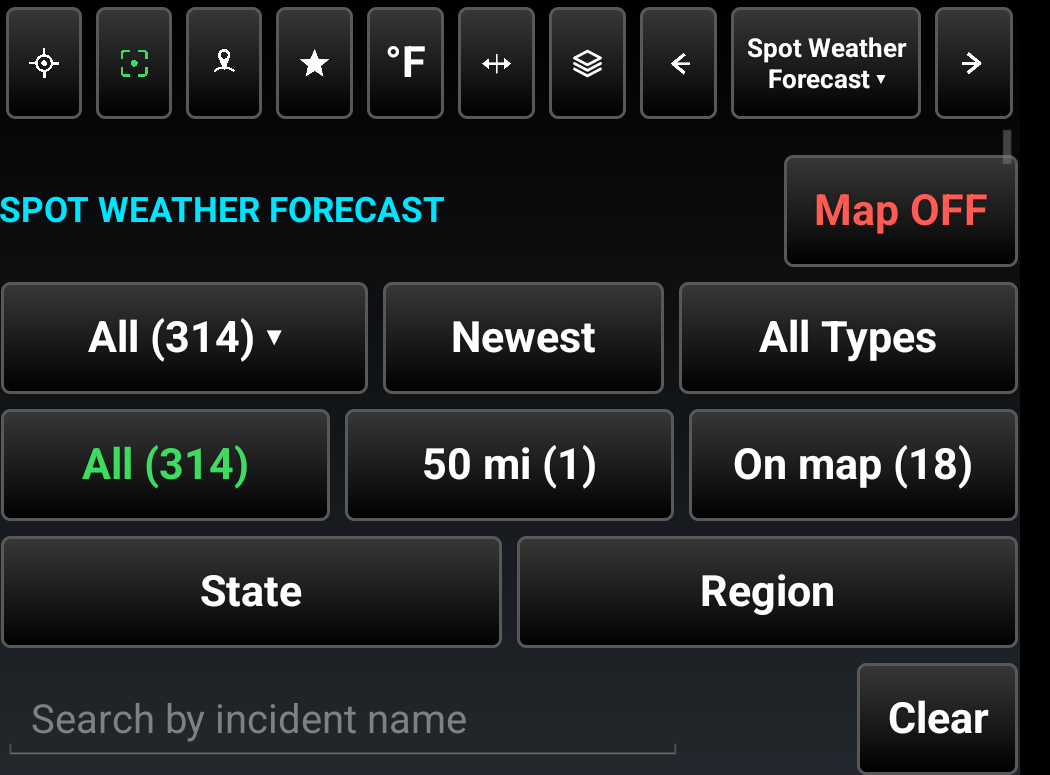
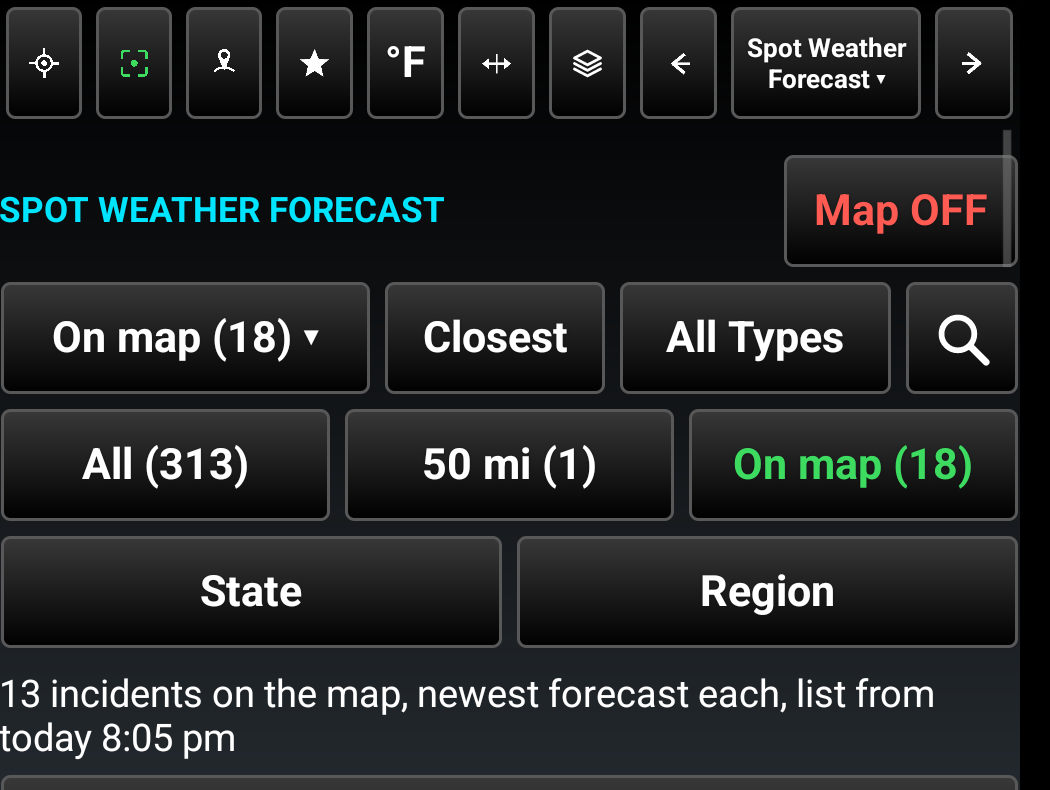
Atmosphere 0.20: Spot search behind a magnifier, one row less
The search box on the Spot Weather Forecast page sits behind a magnifier
button at the end of the filter row (operator, 2026-10-23: "have a search
just be a magnify box and then it opens up the search for incident, save a
row"). A tap opens the box with the keyboard up; a second tap closes it and
clears the search, so nothing filters the list unseen. The Where button takes
a little more of the row so "On map (18)" is not cut. Picture 59 retaken, the
manual and guide say where the search went.

diff --git a/app/src/main/java/com/atakmap/android/atmosphere/ui/SpotPage.java b/app/src/main/java/com/atakmap/android/atmosphere/ui/SpotPage.java
@@ -121,6 +121,8 @@ public final class SpotPage {
     private final TextView status;
     private final android.widget.EditText search;
     private final TextView searchCount;
+    private final View searchRow;
+    private final android.widget.ImageButton searchOpen;
     /** What has been typed, lowercased. Applied on top of whichever scope is picked. */
     private String query = "";
     private final LinearLayout list;
@@ -273,6 +275,17 @@ public final class SpotPage {
                         search.setText("");
                     }
                 });
+        // The box lives behind a magnifier at the end of the row, so the list starts
+        // a row higher; opening it puts the cursor in the box with the keyboard up,
+        // closing it clears the search so nothing filters the list unseen.
+        searchRow = root.findViewById(R.id.spot_search_row);
+        searchOpen = root.findViewById(R.id.spot_search_open);
+        searchOpen.setOnClickListener(new View.OnClickListener() {
+            @Override
+            public void onClick(View v) {
+                showSearch(searchRow.getVisibility() != View.VISIBLE);
+            }
+        });
         list = root.findViewById(R.id.spot_list);
         detailTitle = root.findViewById(R.id.spot_detail_title);
         detailFacts = root.findViewById(R.id.spot_detail_facts);
@@ -632,6 +645,22 @@ public final class SpotPage {
                 scroller.smoothScrollTo(0, row.getTop());
             }
         }, 250L);
+    }
+
+    private void showSearch(boolean open) {
+        searchRow.setVisibility(open ? View.VISIBLE : View.GONE);
+        final android.view.inputmethod.InputMethodManager imm = (android.view.inputmethod.InputMethodManager) mapView
+                .getContext().getSystemService(android.content.Context.INPUT_METHOD_SERVICE);
+        if (open) {
+            search.requestFocus();
+            if (imm != null)
+                imm.showSoftInput(search, android.view.inputmethod.InputMethodManager.SHOW_IMPLICIT);
+        } else {
+            search.setText("");
+            if (imm != null)
+                imm.hideSoftInputFromWindow(search.getWindowToken(), 0);
+            search.clearFocus();
+        }
     }
 
     /** ATAK's own soft-input mode, so it can be handed back unchanged. */

diff --git a/docs/USER_GUIDE.md b/docs/USER_GUIDE.md
@@ -556,9 +556,10 @@ The layer draws every spot forecast request the National Weather Service has
 open, with the forecast the office wrote for each. The page lists them under
 one row of buttons: the first reads where the list looks and how many it holds,
 and opens the choices beneath it (All, Nearby, On map, by State or by Region);
-the next flips between **Newest** and **Closest** first; and a search box under
-the row finds one by incident name. Nearby and Closest measure from the point
-chosen in the top row. Tap a request for its forecast.
+the next flips between **Newest** and **Closest** first; and the magnifier at
+the end of the row opens a search box that finds one by incident name, which a
+second tap closes and clears. Nearby and Closest measure from the point chosen
+in the top row. Tap a request for its forecast.
 
 <img src="screenshots/58_spots.jpg" width="420"> <img src="screenshots/59_spot_list.png" width="420">
 
